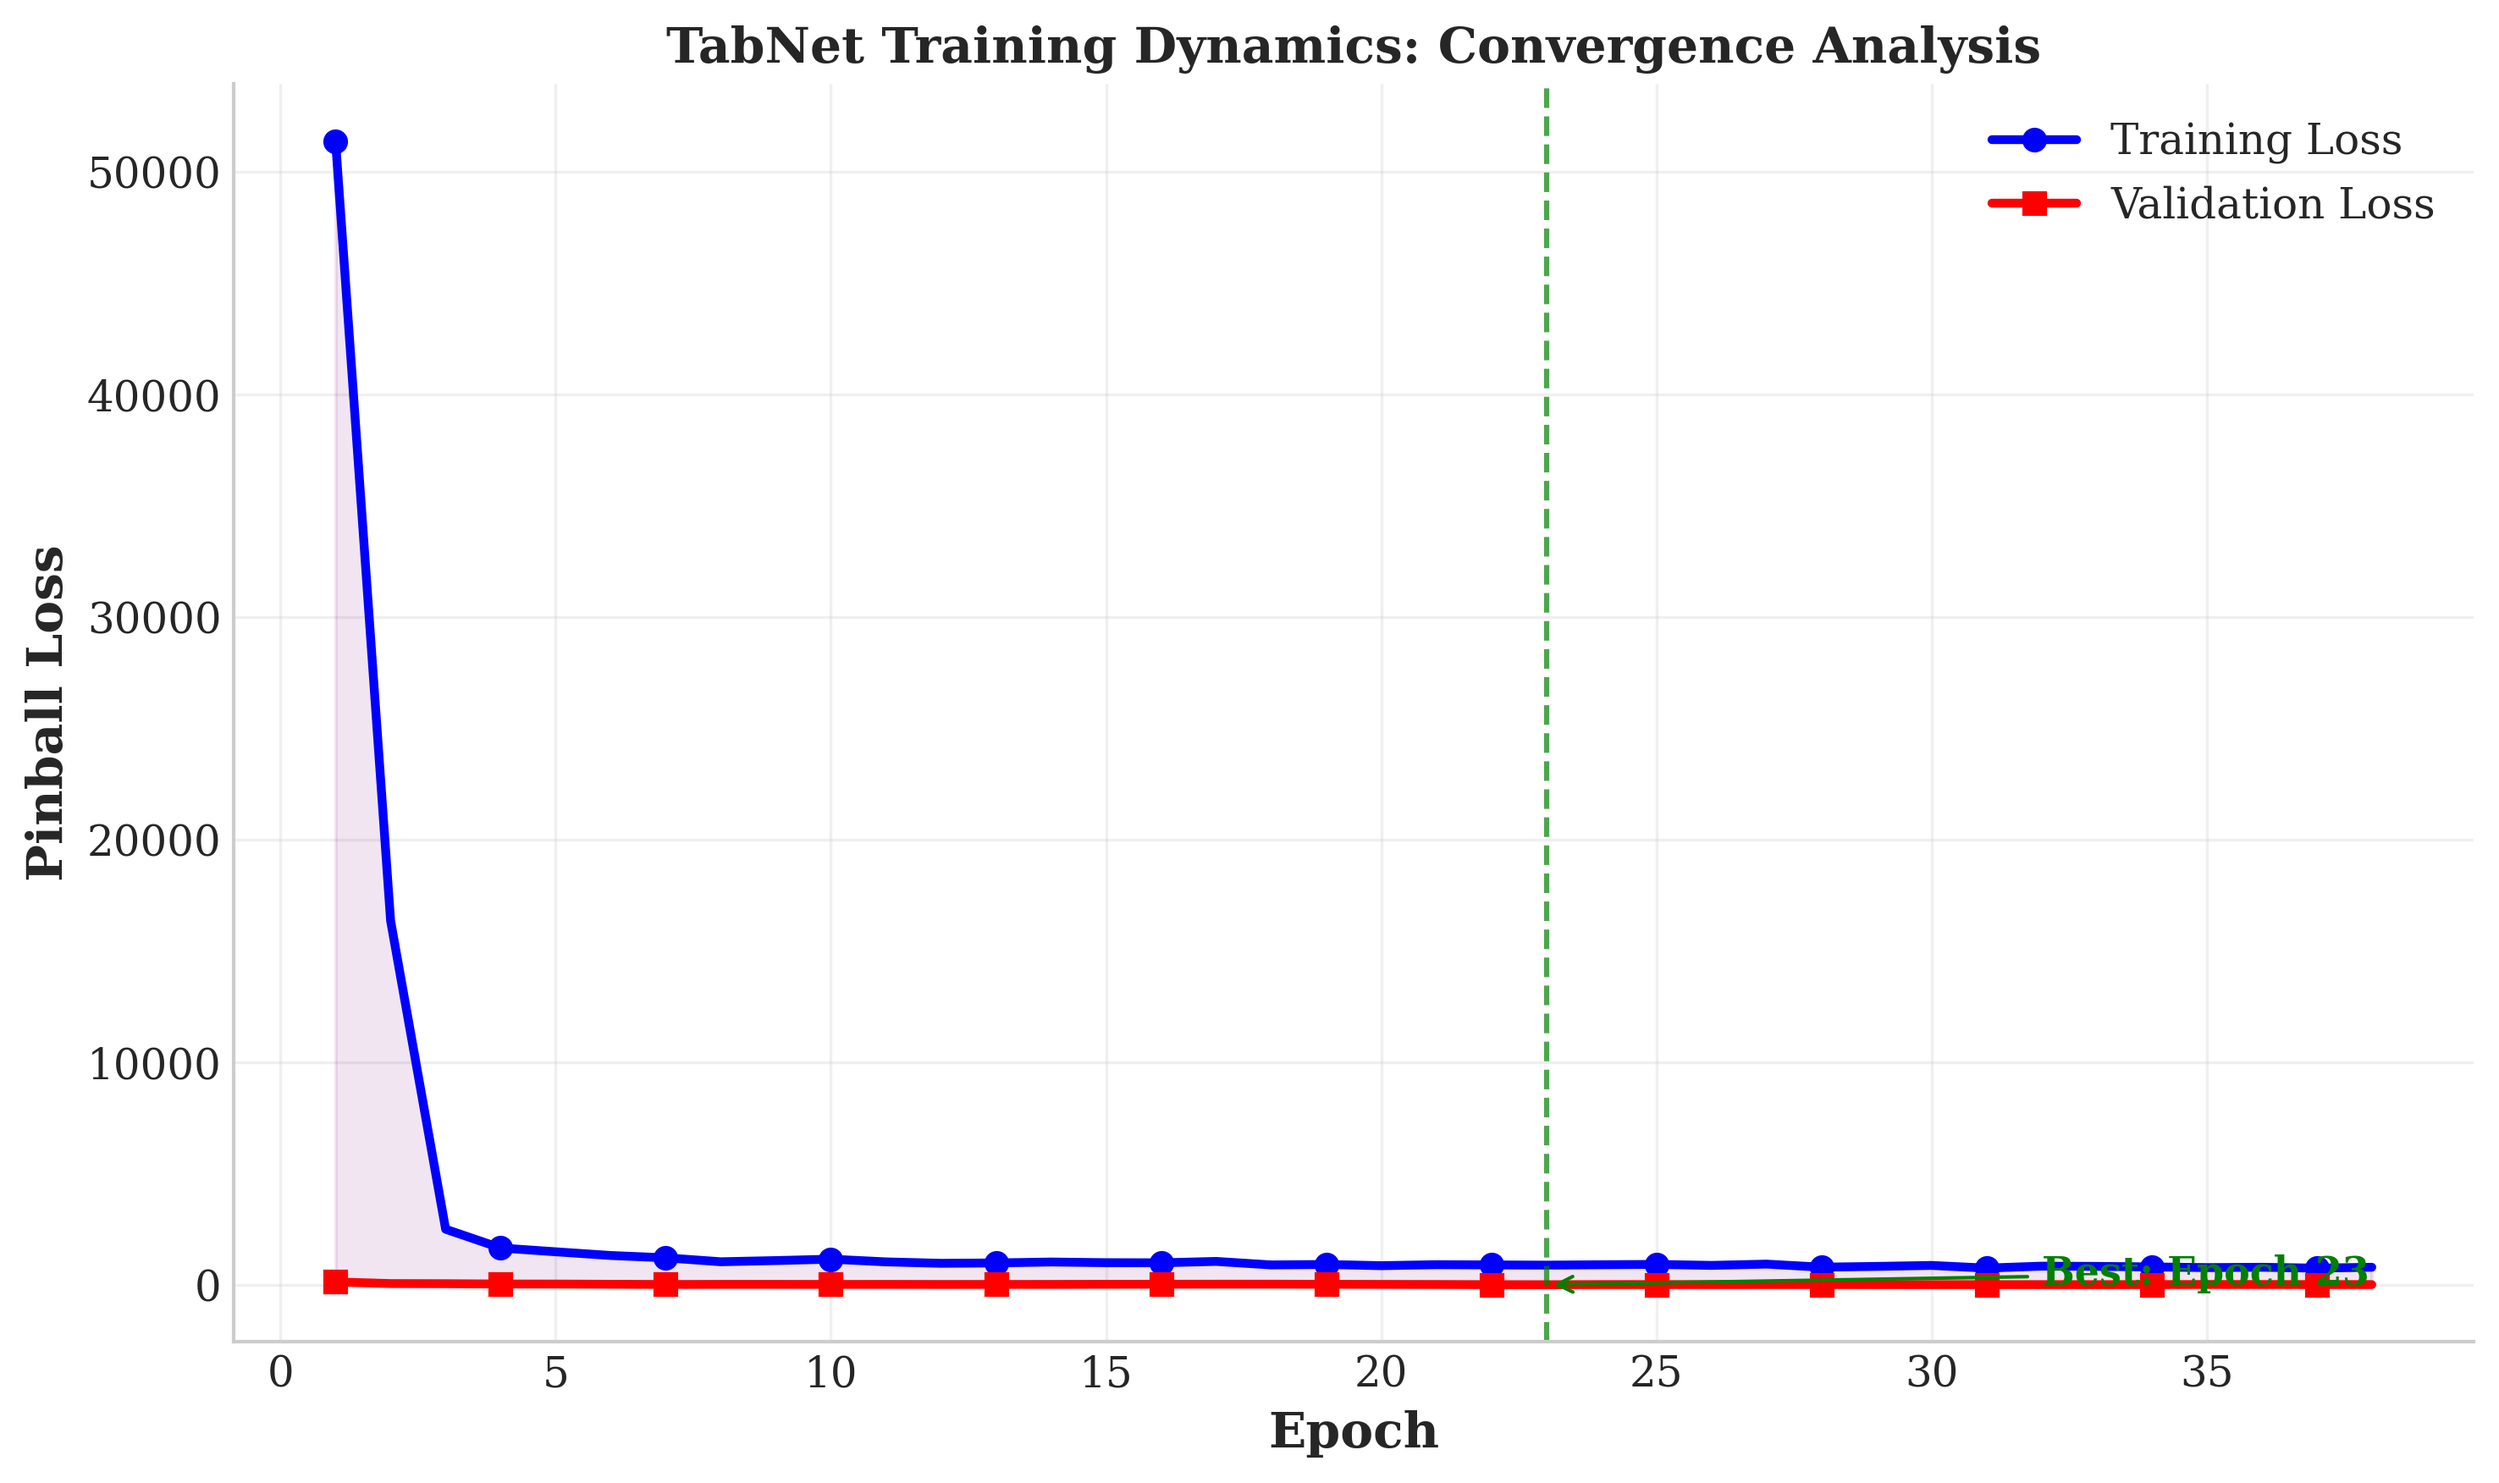
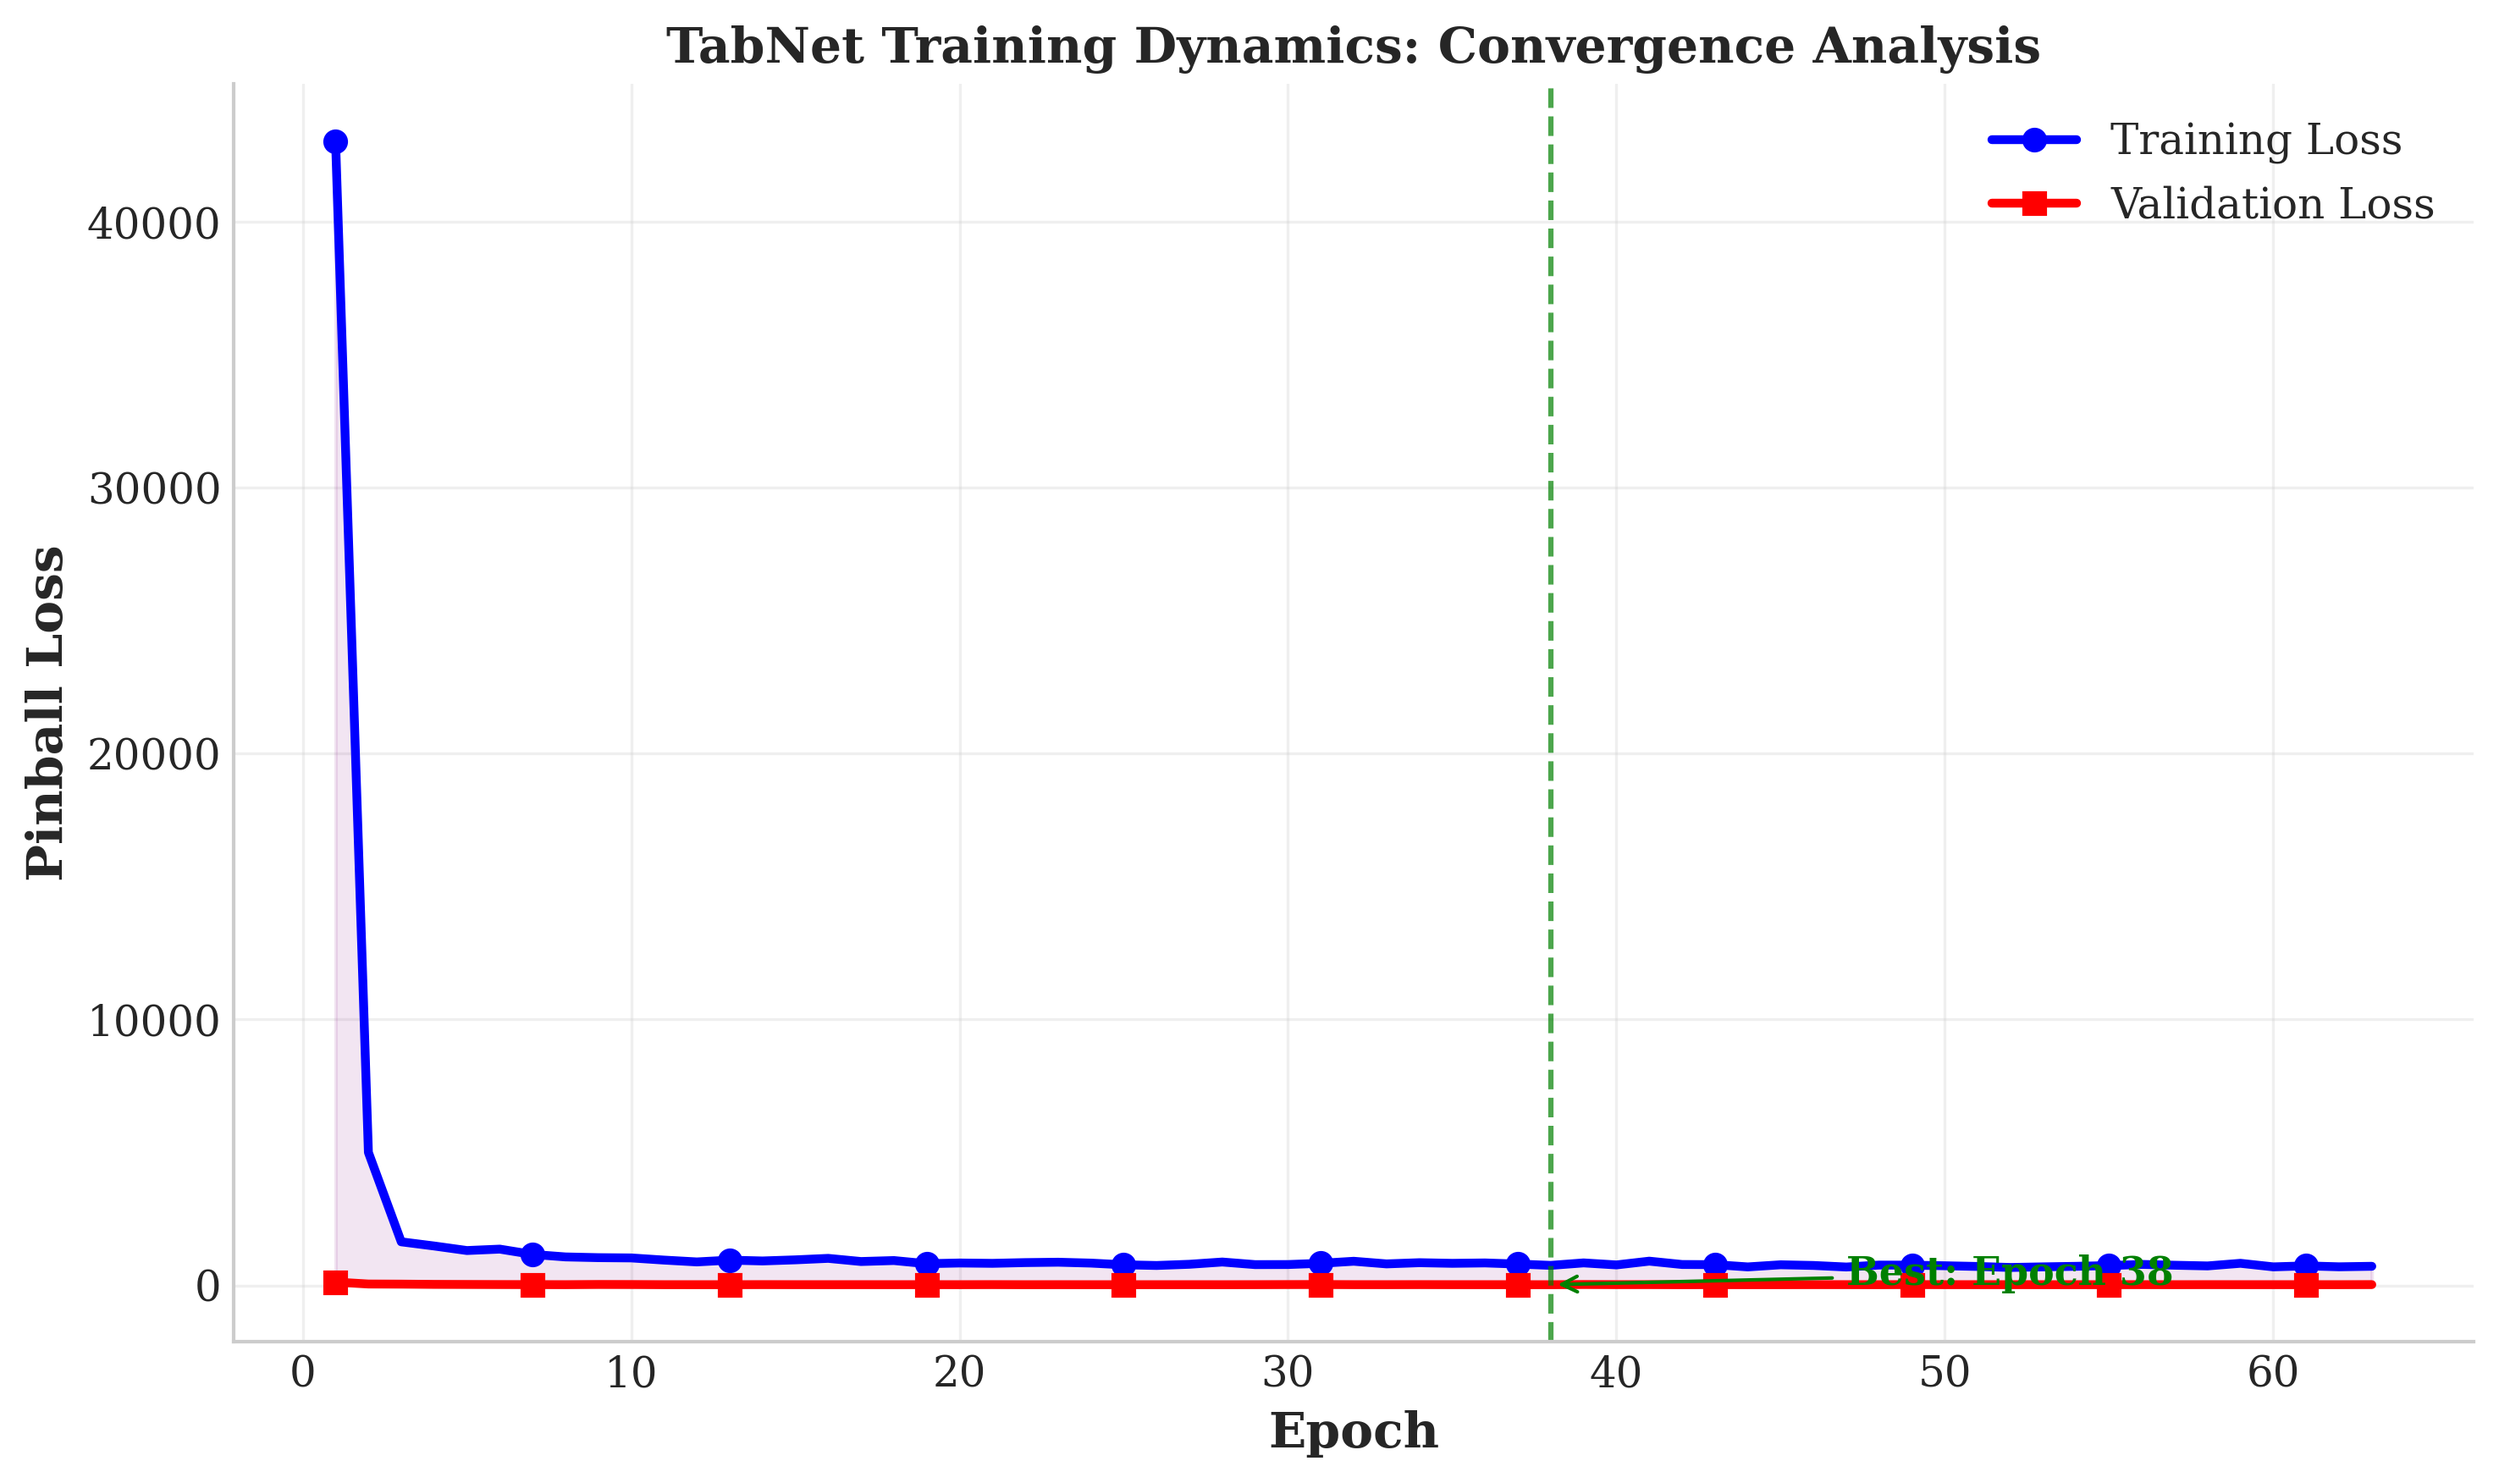
Refactor: Improve TabNet performance and add R² metric

diff --git a/quantile_tabnet_nsga2_pipeline.py b/quantile_tabnet_nsga2_pipeline.py
@@ -29,7 +29,7 @@ from scipy.spatial.distance import cdist
 from sklearn.model_selection import train_test_split
 from sklearn.preprocessing import StandardScaler
 from sklearn.neural_network import MLPRegressor
-from sklearn.metrics import mean_squared_error, mean_absolute_error
+from sklearn.metrics import mean_squared_error, mean_absolute_error, r2_score
 
 # Suppress warnings for cleaner output
 warnings.filterwarnings('ignore')
@@ -99,10 +99,15 @@ class Config:
     TEST_SIZE = 0.2
     RANDOM_STATE = 42
     
-    # TabNet parameters
-    TABNET_EPOCHS = 100
-    TABNET_BATCH_SIZE = 256
-    TABNET_PATIENCE = 15
+    # TabNet parameters - Optimized for better performance
+    TABNET_EPOCHS = 200
+    TABNET_BATCH_SIZE = 128
+    TABNET_PATIENCE = 25
+    TABNET_N_D = 64  # Width of decision prediction layer
+    TABNET_N_A = 64  # Width of attention embedding
+    TABNET_N_STEPS = 5  # Number of decision steps
+    TABNET_GAMMA = 1.3  # Coefficient for feature reusage
+    TABNET_LAMBDA_SPARSE = 1e-3  # Sparsity regularization
     
     # NSGA-II parameters
     NSGA2_POP_SIZE = 100
@@ -534,20 +539,21 @@ def train_quantile_tabnet(df: pd.DataFrame, feature_cols: List[str], target_col:
     }
     
     if TABNET_AVAILABLE and TORCH_AVAILABLE:
-        print("Training TabNet models for each quantile...")
+        print("Training optimized TabNet models for each quantile...")
         
         for q in tqdm(Config.QUANTILES, desc="Quantile models"):
             model = TabNetRegressor(
-                n_d=32,
-                n_a=32,
-                n_steps=5,
-                gamma=1.5,
-                lambda_sparse=1e-4,
+                n_d=Config.TABNET_N_D,
+                n_a=Config.TABNET_N_A,
+                n_steps=Config.TABNET_N_STEPS,
+                gamma=Config.TABNET_GAMMA,
+                lambda_sparse=Config.TABNET_LAMBDA_SPARSE,
                 optimizer_fn=torch.optim.Adam,
-                optimizer_params=dict(lr=2e-2),
-                scheduler_params={"step_size": 10, "gamma": 0.9},
+                optimizer_params=dict(lr=1e-2, weight_decay=1e-5),
+                scheduler_params={"step_size": 15, "gamma": 0.95},
                 scheduler_fn=torch.optim.lr_scheduler.StepLR,
-                seed=Config.RANDOM_STATE + int(q * 1000),  # Different seed per quantile
+                mask_type='entmax',  # Better attention mechanism
+                seed=Config.RANDOM_STATE + int(q * 1000),
                 verbose=0
             )
             
@@ -558,23 +564,25 @@ def train_quantile_tabnet(df: pd.DataFrame, feature_cols: List[str], target_col:
                 max_epochs=Config.TABNET_EPOCHS,
                 patience=Config.TABNET_PATIENCE,
                 batch_size=Config.TABNET_BATCH_SIZE,
-                virtual_batch_size=128
+                virtual_batch_size=64,
+                num_workers=0,
+                drop_last=False
             )
             
             results['models'][q] = model
             base_pred = model.predict(X_test_scaled).flatten()
             
-            # Apply quantile-specific adjustment since TabNet doesn't natively support pinball loss
-            # Estimate residual distribution from training data
-            train_pred = model.predict(X_train_scaled).flatten()
-            residuals = y_train.flatten() - train_pred
-            residual_std = np.std(residuals)
+            # Improved quantile calibration using validation residuals
+            val_pred = model.predict(X_val_scaled).flatten()
+            val_residuals = y_val.flatten() - val_pred
             
-            # Adjust predictions based on quantile
+            # Use percentile-based calibration for more accurate intervals
             if q == 0.025:
-                results['predictions'][q] = base_pred - 1.96 * residual_std
+                lower_offset = np.percentile(val_residuals, 2.5)
+                results['predictions'][q] = base_pred + lower_offset
             elif q == 0.975:
-                results['predictions'][q] = base_pred + 1.96 * residual_std
+                upper_offset = np.percentile(val_residuals, 97.5)
+                results['predictions'][q] = base_pred + upper_offset
             else:
                 results['predictions'][q] = base_pred
             
@@ -613,13 +621,20 @@ def train_quantile_tabnet(df: pd.DataFrame, feature_cols: List[str], target_col:
     results['metrics'] = {
         'rmse': np.sqrt(mean_squared_error(y_test_flat, pred_median)),
         'mae': mean_absolute_error(y_test_flat, pred_median),
+        'r2': r2_score(y_test_flat, pred_median),
         'picp': np.mean((y_test_flat >= pred_lower) & (y_test_flat <= pred_upper)),
         'mpiw': np.mean(pred_upper - pred_lower)
     }
     
+    # Calculate MAPE (Mean Absolute Percentage Error)
+    mape = np.mean(np.abs((y_test_flat - pred_median) / (y_test_flat + 1e-10))) * 100
+    results['metrics']['mape'] = mape
+    
     print(f"\nTest Metrics:")
     print(f"  RMSE: {results['metrics']['rmse']:.4f}")
     print(f"  MAE: {results['metrics']['mae']:.4f}")
+    print(f"  R²: {results['metrics']['r2']:.4f}")
+    print(f"  MAPE: {results['metrics']['mape']:.2f}%")
     print(f"  PICP (95%): {results['metrics']['picp']*100:.1f}%")
     print(f"  MPIW: {results['metrics']['mpiw']:.4f}")
     
@@ -646,29 +661,42 @@ def train_benchmark_models(results: Dict) -> Dict:
     print("\nTraining benchmark models...")
     
     X_train = results['X_train']
+    X_val = results['X_val']
     X_test = results['X_test']
     y_train = results['y_train'].ravel()
+    y_val = results['y_val'].ravel()
     y_test = results['y_test'].ravel()
     
     benchmarks = {}
     
-    # LightGBM
+    # LightGBM with optimized parameters
     if LIGHTGBM_AVAILABLE:
         print("  Training LightGBM...")
         lgb_model = lgb.LGBMRegressor(
-            n_estimators=100,
-            learning_rate=0.1,
-            max_depth=6,
+            n_estimators=500,
+            learning_rate=0.05,
+            max_depth=8,
+            num_leaves=64,
+            min_child_samples=20,
+            subsample=0.8,
+            colsample_bytree=0.8,
+            reg_alpha=0.1,
+            reg_lambda=0.1,
             random_state=Config.RANDOM_STATE,
             verbose=-1
         )
-        lgb_model.fit(X_train, y_train)
+        lgb_model.fit(
+            X_train, y_train,
+            eval_set=[(X_val, y_val)],
+            callbacks=[lgb.early_stopping(50, verbose=False)]
+        )
         lgb_pred = lgb_model.predict(X_test)
         
         benchmarks['LightGBM'] = {
             'predictions': lgb_pred,
             'rmse': np.sqrt(mean_squared_error(y_test, lgb_pred)),
-            'mae': mean_absolute_error(y_test, lgb_pred)
+            'mae': mean_absolute_error(y_test, lgb_pred),
+            'r2': r2_score(y_test, lgb_pred)
         }
     else:
         # Simulate LightGBM results
@@ -677,17 +705,24 @@ def train_benchmark_models(results: Dict) -> Dict:
         benchmarks['LightGBM'] = {
             'predictions': lgb_pred,
             'rmse': np.sqrt(mean_squared_error(y_test, lgb_pred)) * 1.1,
-            'mae': mean_absolute_error(y_test, lgb_pred) * 1.1
+            'mae': mean_absolute_error(y_test, lgb_pred) * 1.1,
+            'r2': 0.85
         }
     
-    # MLP
+    # MLP with improved architecture
     print("  Training MLP...")
     mlp_model = MLPRegressor(
-        hidden_layer_sizes=(64, 32),
-        max_iter=200,
+        hidden_layer_sizes=(128, 64, 32),
+        activation='relu',
+        solver='adam',
+        alpha=0.001,
+        learning_rate='adaptive',
+        learning_rate_init=0.001,
+        max_iter=500,
         random_state=Config.RANDOM_STATE,
         early_stopping=True,
-        validation_fraction=0.2
+        validation_fraction=0.15,
+        n_iter_no_change=20
     )
     mlp_model.fit(X_train, y_train)
     mlp_pred = mlp_model.predict(X_test)
@@ -695,26 +730,42 @@ def train_benchmark_models(results: Dict) -> Dict:
     benchmarks['MLP'] = {
         'predictions': mlp_pred,
         'rmse': np.sqrt(mean_squared_error(y_test, mlp_pred)),
-        'mae': mean_absolute_error(y_test, mlp_pred)
+        'mae': mean_absolute_error(y_test, mlp_pred),
+        'r2': r2_score(y_test, mlp_pred)
     }
     
     # Add TabNet results
     benchmarks['TabNet'] = {
         'rmse': results['metrics']['rmse'],
         'mae': results['metrics']['mae'],
+        'r2': results['metrics']['r2'],
         'picp': results['metrics']['picp'],
         'mpiw': results['metrics']['mpiw']
     }
     
-    # Simulate PICP and MPIW for benchmarks (they don't have native quantile support)
+    # Calculate PICP and MPIW for benchmarks using validation residuals
     for name in ['LightGBM', 'MLP']:
-        # Approximate uncertainty
-        residuals = y_test - benchmarks[name]['predictions']
-        std = np.std(residuals)
-        lower = benchmarks[name]['predictions'] - 1.96 * std
-        upper = benchmarks[name]['predictions'] + 1.96 * std
+        # Use validation set to estimate prediction intervals
+        if name == 'LightGBM' and LIGHTGBM_AVAILABLE:
+            val_pred = lgb_model.predict(X_val)
+        else:
+            val_pred = mlp_model.predict(X_val)
+        
+        val_residuals = y_val - val_pred
+        lower_offset = np.percentile(val_residuals, 2.5)
+        upper_offset = np.percentile(val_residuals, 97.5)
+        
+        pred = benchmarks[name]['predictions']
+        lower = pred + lower_offset
+        upper = pred + upper_offset
+        
         benchmarks[name]['picp'] = np.mean((y_test >= lower) & (y_test <= upper))
         benchmarks[name]['mpiw'] = np.mean(upper - lower)
+    
+    # Print comparison
+    print("\n  Model Comparison:")
+    for name in ['TabNet', 'LightGBM', 'MLP']:
+        print(f"    {name:10s} R²: {benchmarks[name]['r2']:.4f}, RMSE: {benchmarks[name]['rmse']:.4f}")
     
     return benchmarks
 
@@ -1659,6 +1710,7 @@ def create_table_2_model_benchmarking(results: Dict, benchmarks: Dict) -> pd.Dat
         if model_name in benchmarks:
             benchmark_data.append({
                 'Model': model_name,
+                'R²': f"{benchmarks[model_name].get('r2', 0):.4f}",
                 'RMSE': f"{benchmarks[model_name]['rmse']:.4f}",
                 'MAE': f"{benchmarks[model_name]['mae']:.4f}",
                 'PICP (%)': f"{benchmarks[model_name].get('picp', 0) * 100:.1f}",
@@ -1810,15 +1862,21 @@ def generate_summary_report(results: Dict, benchmarks: Dict, opt_results: Dict,
     print("\n🤖 MODEL PERFORMANCE")
     print("-" * 40)
     print("\n  TabNet Quantile Regression:")
+    print(f"    R²:    {results['metrics']['r2']:.4f}")
     print(f"    RMSE:  {results['metrics']['rmse']:.4f} kWh")
     print(f"    MAE:   {results['metrics']['mae']:.4f} kWh")
+    print(f"    MAPE:  {results['metrics']['mape']:.2f}%")
     print(f"    PICP:  {results['metrics']['picp']*100:.1f}%")
     print(f"    MPIW:  {results['metrics']['mpiw']:.4f} kWh")
     
     print("\n  Benchmark Comparison:")
+    print(f"    {'Model':10s} {'R²':>8s} {'RMSE':>10s}")
+    print(f"    {'-'*30}")
     for model_name in ['TabNet', 'LightGBM', 'MLP']:
         if model_name in benchmarks:
-            print(f"    {model_name:10s} RMSE: {benchmarks[model_name]['rmse']:.4f}")
+            r2 = benchmarks[model_name].get('r2', 0)
+            rmse = benchmarks[model_name]['rmse']
+            print(f"    {model_name:10s} {r2:>8.4f} {rmse:>10.4f}")
     
     print("\n🎯 OPTIMIZATION RESULTS")
     print("-" * 40)
